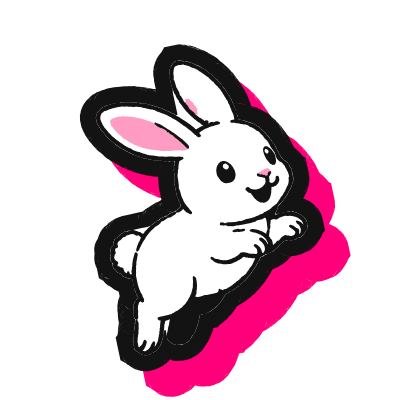
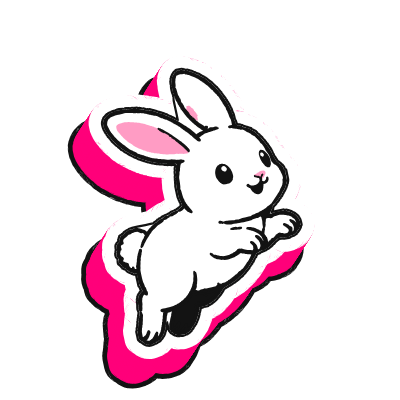
feat: Draw the roundel rabbit as a die-cut sticker on an ink-backed pink block, with a smaller mouth.

Changed region(s): [[0.15, 0.09, 0.9, 1.0], [0.54, 0.39, 0.6, 0.48]]

diff --git a/docs/STYLEGUIDE.md b/docs/STYLEGUIDE.md
@@ -843,8 +843,9 @@ roundel.**
 - `PageHero` renders the roundel whenever it has no `image`. There is no prop.
 - About and every post with a `cover` have a photo, so no roundel.
 - The homepage is not a PageHero and has no roundel on its window.
-- The roundel is the jumping rabbit with no disc: flat white, a thick ink edge
-  and a hard `bunny` throw, drawn into `src/assets/roundel-rabbit.png` by
+- The roundel is the jumping rabbit with no disc: a die-cut sticker (white
+  rim, thin ink line) on a `bunny` block that falls behind the rabbit, its back
+  face edged in ink, drawn into `src/assets/roundel-rabbit.png` by
   `scripts/make-logo.mjs`, tilted 3deg. `variant="hero"` sizes its box by
   `--spacing-roundel`; the page variant is 96px, 128px from `lg`.
 - Its center sits `--spacing(1)` above the slab's bottom edge; its right side
@@ -871,7 +872,7 @@ roundel.**
 | Chip label                  | `text` on `surface`             | 13.51 | 4.5        |
 | Focus ring                  | `gold-text` on gold             | 11.32 | 3          |
 | Photo border                | `gold-text` on gold             | 11.32 | decoration |
-| Roundel rabbit edge         | `fill-edge` on gold             | 11.32 | decoration |
+| Roundel rabbit back edge    | `fill-edge` on gold             | 11.32 | decoration |
 | Roundel rabbit off the slab | white fill on `background`      | 19.68 | decoration |
 | Photo and chip shadows      | pink on gold                    | 2.31  | decoration |
 
